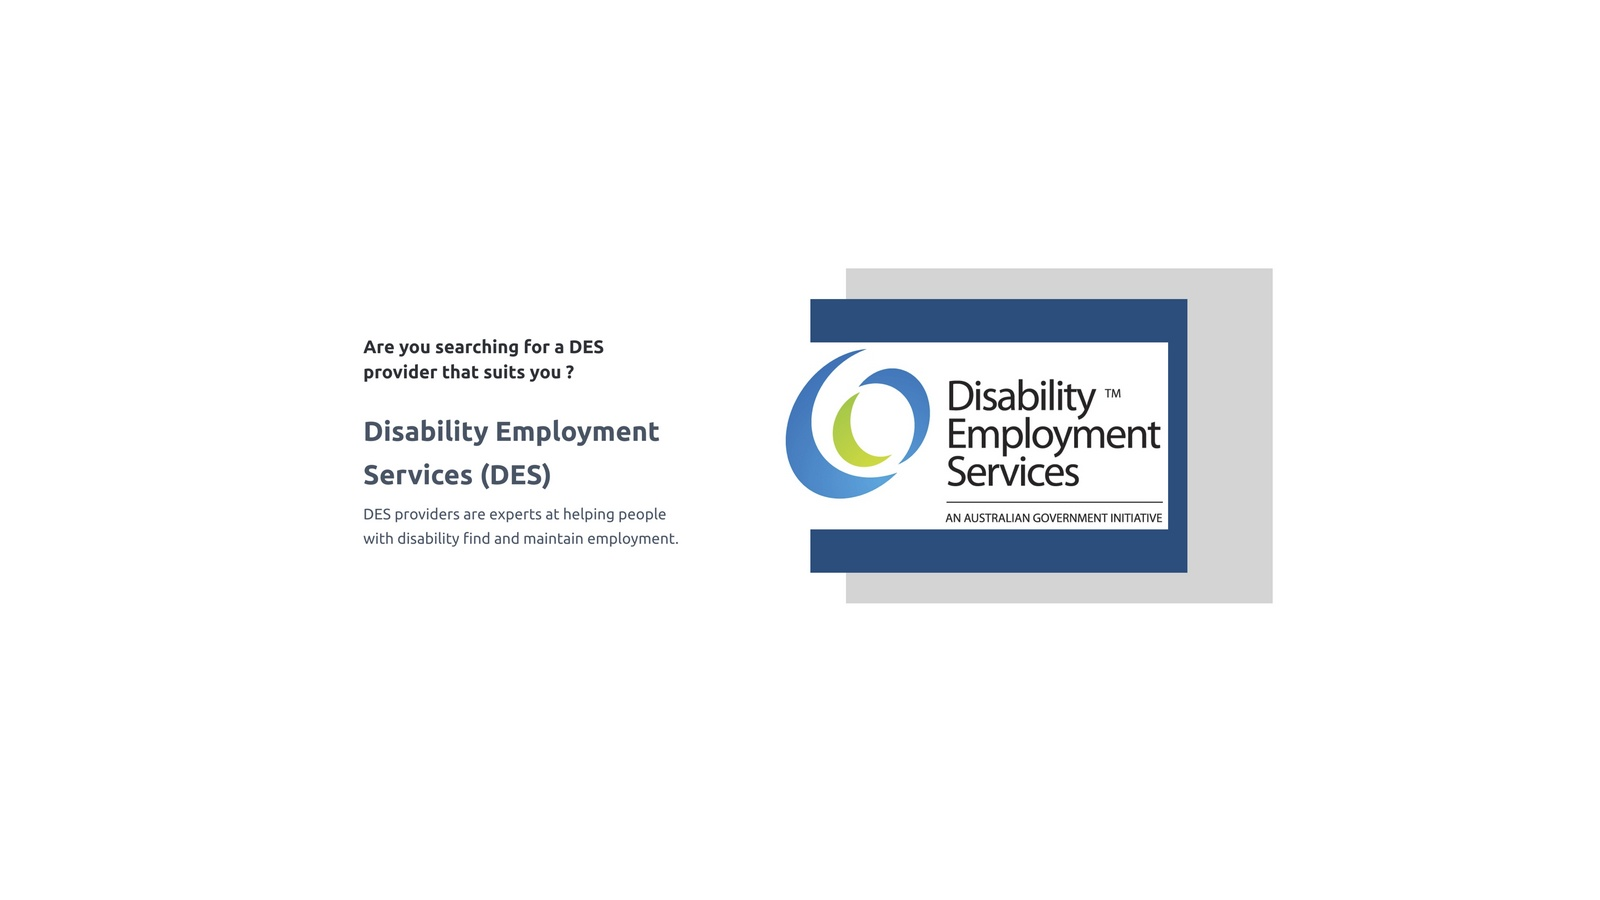
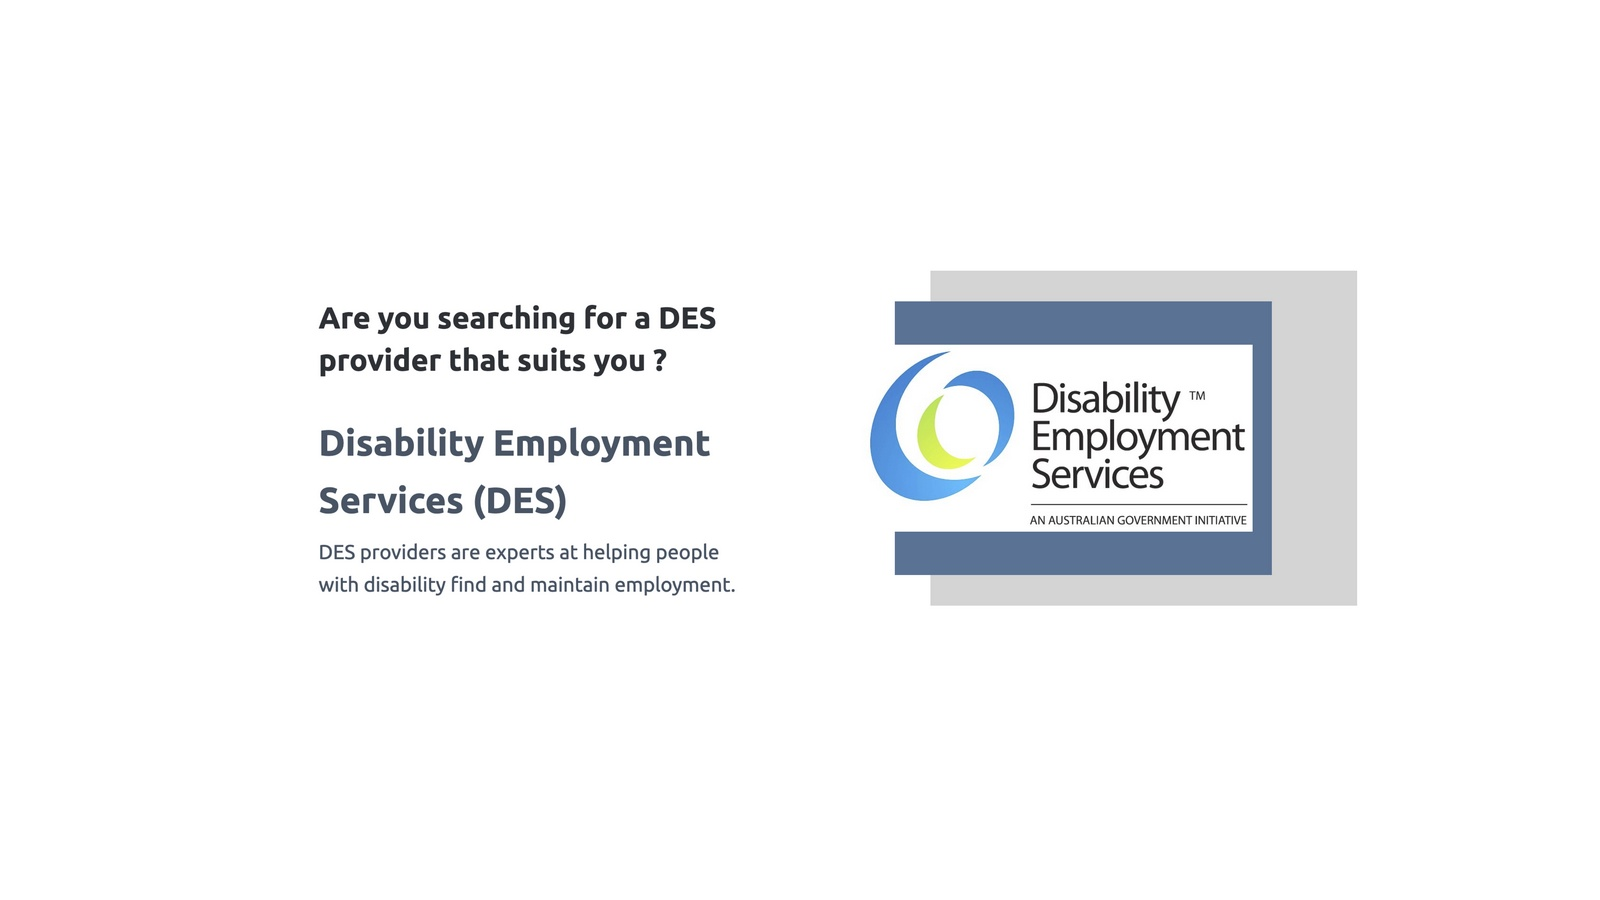
Update DES definition image

Changed region(s): [[0.4688, 0.28, 0.875, 0.6844], [0.1875, 0.4667, 0.4688, 0.6533], [0.1875, 0.3422, 0.4688, 0.4356]]

diff --git a/iterations/iteration3/DES-Colorblind/index.css b/iterations/iteration3/DES-Colorblind/index.css
@@ -1,7 +1,7 @@
 .u-section-1 .u-sheet-1 {min-height: 38px}.u-block-e78f-1 {background-image: linear-gradient(0deg, rgba(0,0,0,0.4), rgba(0,0,0,0.4)), url("images/iStock-528057506.jpg"); background-position: 50% 50%; margin-top: 0; margin-bottom: 0}
 .u-block-e78f-2 {position: absolute; bottom: 10px}
 .u-block-e78f-3 {position: absolute; left: 0; background-image: none}
-.u-block-e78f-4 {position: absolute; right: 0; background-image: none}.u-section-2-1 {background-image: url("images/homepage_def_colorblind.jpg"); background-position:46.29% 46.92%; background-size: 125%}
+.u-block-e78f-4 {position: absolute; right: 0; background-image: none}.u-section-2-1 {background-image: url("images/homepage_desdef_colorblind.jpg"); background-position: 50% 50%}
 .u-section-2-1 .u-sheet-1 {min-height: 452px} 
 
 @media (max-width: 1199px){ .u-section-2-1 .u-sheet-1 {min-height: 372px} }

diff --git a/iterations/iteration3/DES-Normal/index.css b/iterations/iteration3/DES-Normal/index.css
@@ -1,7 +1,7 @@
 .u-section-1 .u-sheet-1 {min-height: 38px}.u-block-e78f-1 {background-image: url("images/homepage_des_def.jpg"); background-position: 50% 50%; margin-top: 0; margin-bottom: 0}
 .u-block-e78f-2 {position: absolute; bottom: 10px}
 .u-block-e78f-3 {position: absolute; left: 0; background-image: none}
-.u-block-e78f-4 {position: absolute; right: 0; background-image: none}.u-section-2-1 {background-image: url("images/homepage_desdef.jpg"); background-position:46.29% 46.92%; background-size: 125%}
+.u-block-e78f-4 {position: absolute; right: 0; background-image: none}.u-section-2-1 {background-image: url("images/homepage_desdef.jpg");background-position: 50% 50%}
 .u-section-2-1 .u-sheet-1 {min-height: 452px} 
 
 @media (max-width: 1199px){ .u-section-2-1 .u-sheet-1 {min-height: 372px} }

diff --git a/iterations/iteration3/DES-Normal/index.html b/iterations/iteration3/DES-Normal/index.html
@@ -102,9 +102,7 @@
         <h1 class="u-custom-font u-text u-text-font u-text-1">WE ARE HERE TO GUIDE AND SUPPORT</h1>
       </div></header>
     
-      <section class="u-clearfix u-section-1" id="sec-53ed">
-        <div class="u-clearfix u-sheet u-sheet-1"></div>
-      </section>
+   
       <section
         id="carousel_b430"
         class="u-carousel u-slide u-block-e78f-1"

diff --git a/iterations/iteration3/DES-Colorblind/index.html b/iterations/iteration3/DES-Colorblind/index.html
@@ -93,9 +93,6 @@
       <h1 class="u-custom-font u-text u-text-font u-text-1">WE ARE HERE TO GUIDE AND SUPPORT</h1>
     </div></header>
     
-    <section class="u-clearfix u-section-1" id="sec-53ed">
-      <div class="u-clearfix u-sheet u-sheet-1"></div>
-    </section>
     <section
       id="carousel_b430"
       class="u-carousel u-slide u-block-e78f-1"
